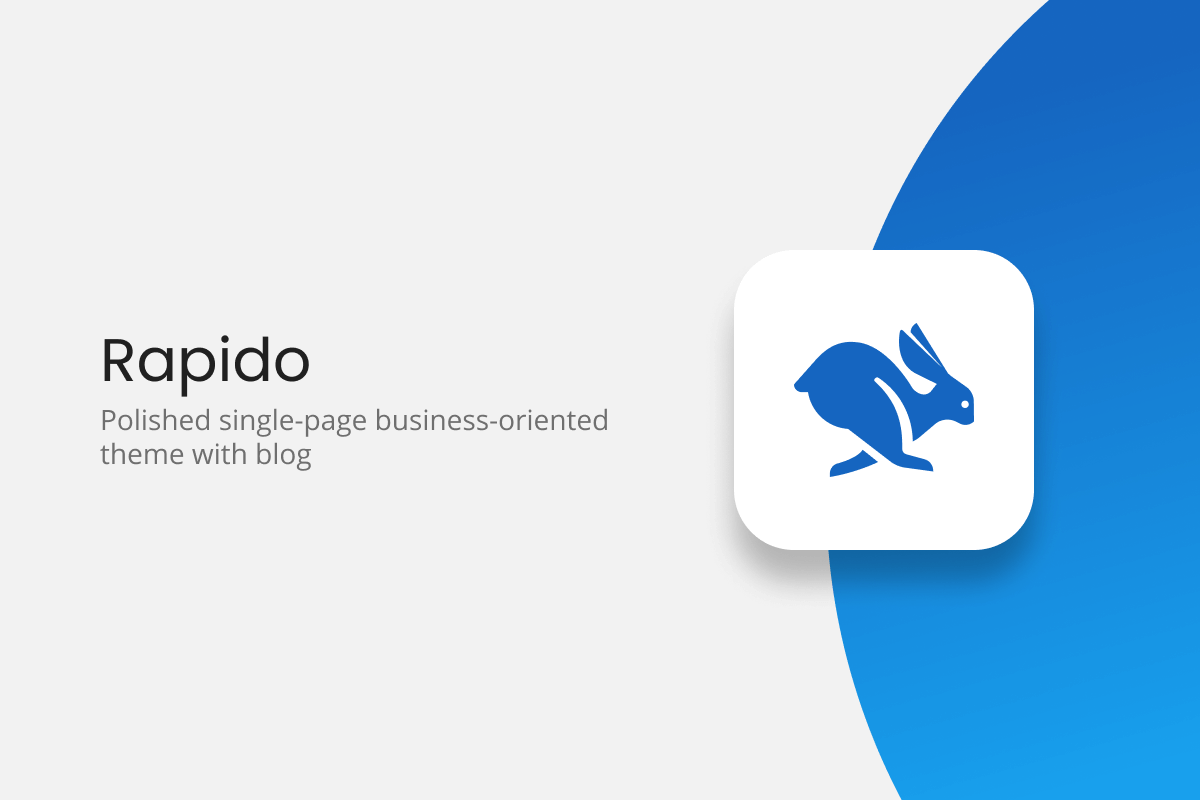
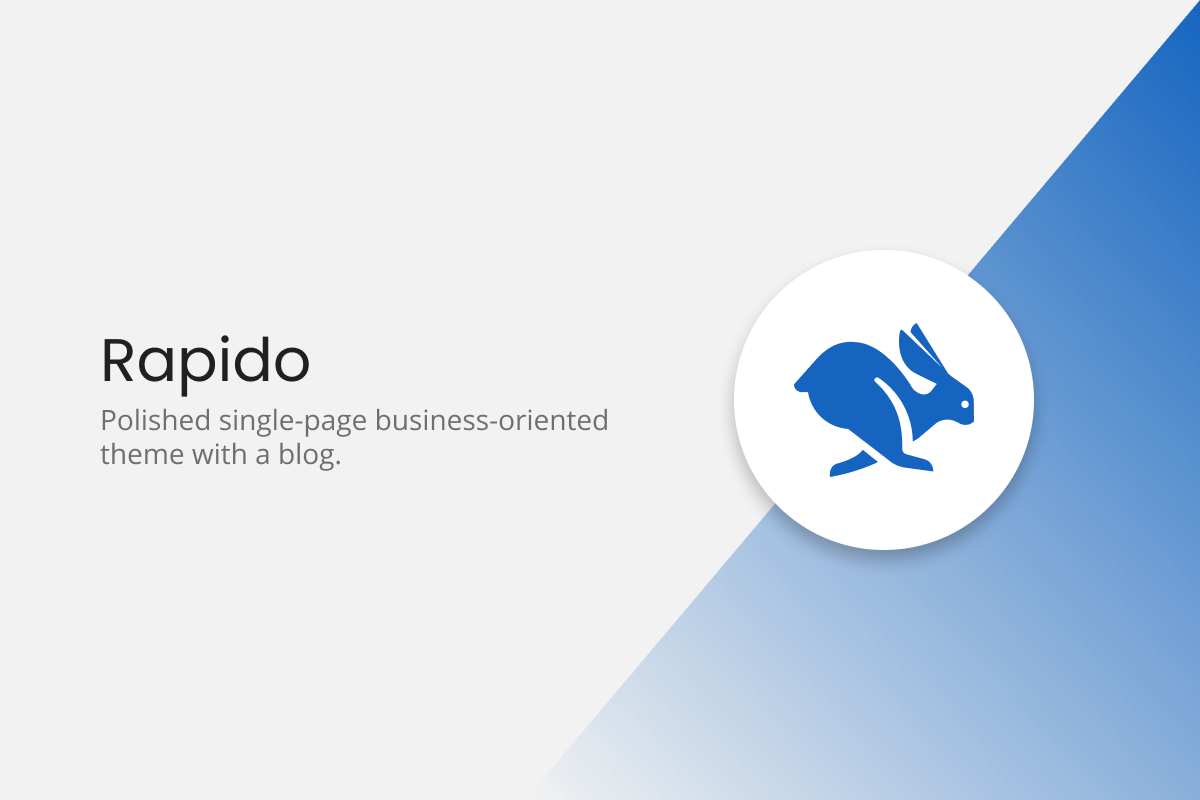
Update theme preview, theme.yaml, composer.json and README.md file.

Changed region(s): [[0.4933, 0.0, 1.0, 1.0], [0.2158, 0.5625, 0.2775, 0.5938]]

diff --git a/README.md b/README.md
@@ -1,12 +1,20 @@
-Rapido Theme for October CMS
+Rapido
 ==========
+Rapido is a polished single-page business-oriented theme with a blog.
 
-![Screenshot](https://github.com/PictureElement/rapido-theme/blob/master/assets/images/theme-preview.png?raw=true)
+## Homepage sections
+* Hero
+* Services
+* Testimonials
+* Projects
+* About
+* Retail
+* FAQs
+* Blog
+* Clients
+* Contact
 
-A polished single-page business-oriented theme with blog for October CMS.
-
-## Features/Highlights
-
+## Features
 * Free and open-source
 * Blog (Categories, Tags, Popular posts, Related posts, Search function, Social share buttons)
 * Easy theming
@@ -18,13 +26,46 @@ A polished single-page business-oriented theme with blog for October CMS.
 * BEM naming (Sass files included)
 * System/Google fonts selection
 * Masonry portfolio with category filters
-* GDPR compliance
+* Opt-in cookie consent with Google Analytics
 * Open Graph support
 * Contact & Subscription forms
 * 404, 500 & Maintenance pages
 
-## License
+## Performance considerations
+* Image resize on the fly
+* Image compression with TinyPNG (requires developer key)
+* Offer multiple sizes of the same image (using `srcset` and `sizes`)
 
-You can fork this repo is completely free. Code released under the [MIT](LICENSE) license.
+## Pages
+* Home
+* Blog
+* Blog category
+* Blog tag
+* Post
+* Search results
+* Privacy Policy
+* Page not found (404)
+* Error page (500)
+* Maintenance
 
-Developed by [Marios Sofokleous](https://www.msof.me/).
+## Required plugins
+* [msof.portfolio](https://octobercms.com/plugin/msof-portfolio) - Ajax-powered Masonry portfolio with category filters and a modal dialog.
+* [Martin.Forms](https://octobercms.com/plugin/martin-forms) - Create easy AJAX forms.
+* [OFFLINE.SiteSearch](https://octobercms.com/plugin/offline-sitesearch) - Global search for your frontend.
+* [Tallpro.Related](https://octobercms.com/plugin/tallpro-related) - Get related articles by category.
+* [PolloZen.MostVisited](https://octobercms.com/plugin/pollozen-mostvisited) - Register visit to RainLab Blog publication and retrieve the most visited publications.
+* [Rahman.BlogTags](https://octobercms.com/plugin/rahman-blogtags) - Blog tags for rainlab.blog plugin.
+* [RainLab.Blog](https://octobercms.com/plugin/rainlab-blog) - A robust blogging platform.
+
+## Recommended plugins
+* [ToughDeveloper.ImageResizer](https://octobercms.com/plugin/toughdeveloper-imageresizer) - Provides Twig filter to resize images on the fly.
+
+## Contribution
+The GitHub repository for this theme can be found [here](https://github.com/PictureElement/rapido-theme). Please feel free to contribute or report any bugs.
+
+## You may like my other plugins/themes
+- [msof.droneworks](https://octobercms.com/theme/msof-droneworks) - Single-page drone & UAV business services theme with a blog.
+- [msof.portfolio](https://octobercms.com/plugin/msof-portfolio) - Ajax-powered Masonry portfolio with category filters and a modal dialog.
+
+## About me
+My name is [Marios Sofokleous](https://www.msof.me/), and I am a web developer with industry experience building custom websites.
